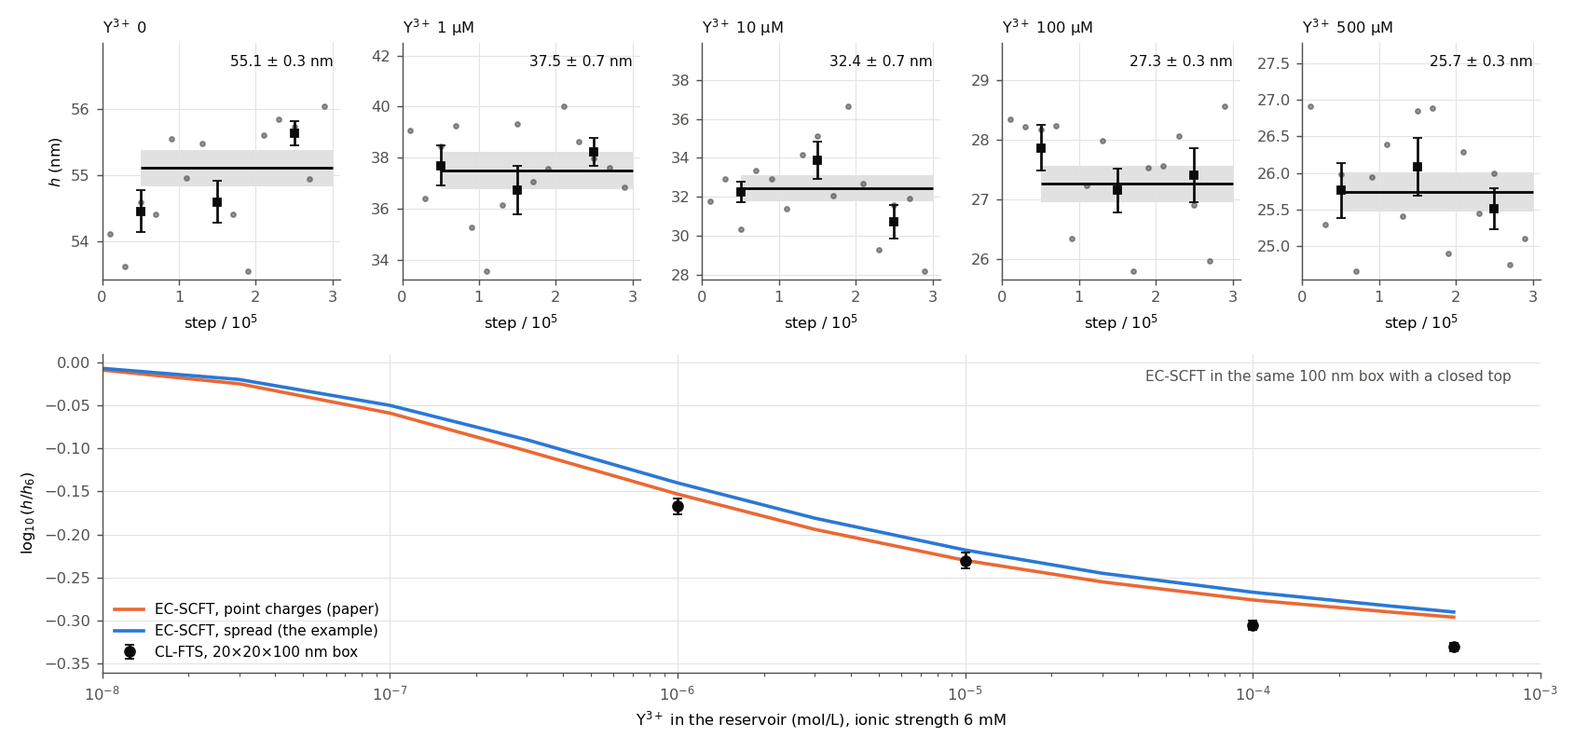
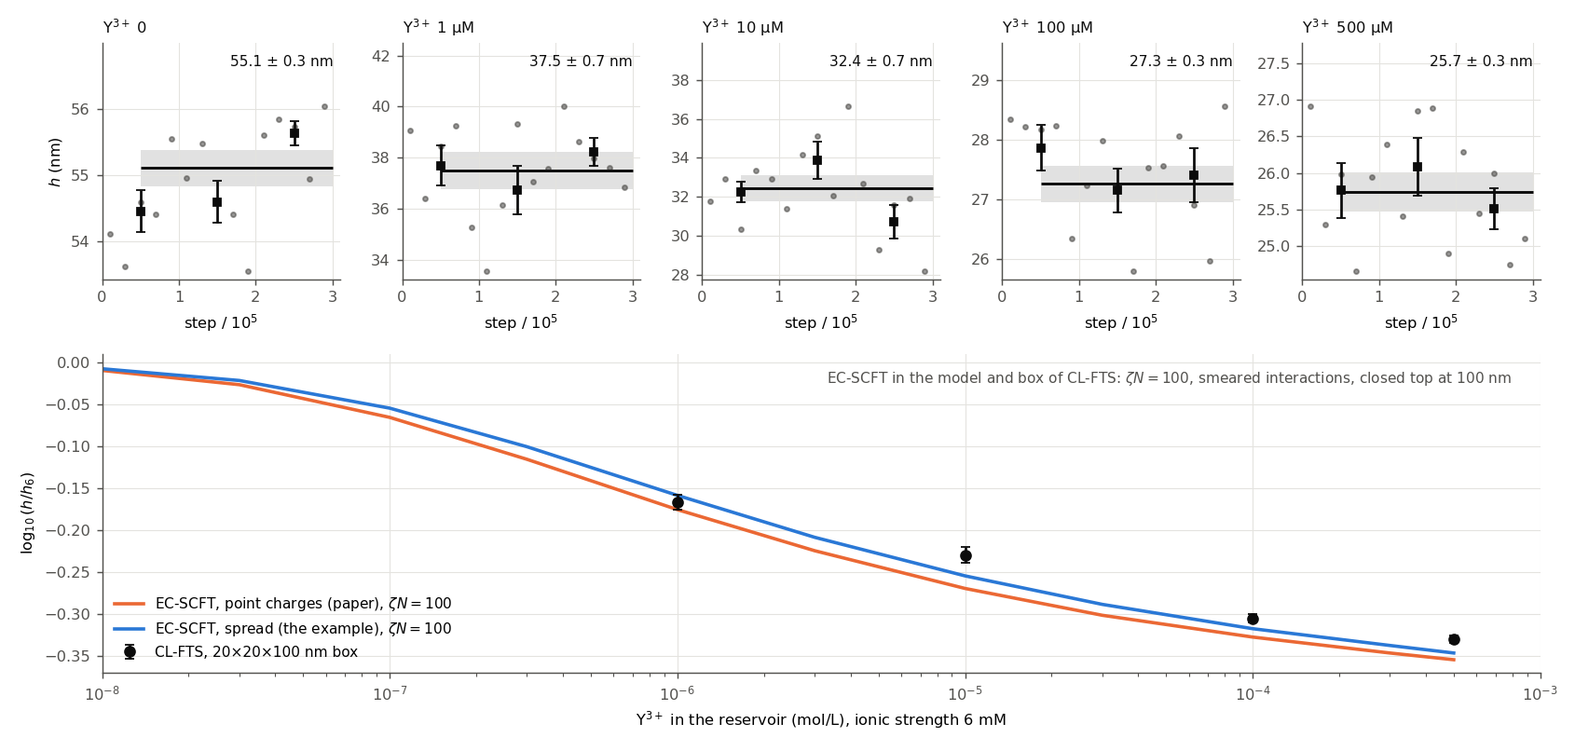
Compare the brush with CL-FTS through EC-SCFT in the model of the CL-FTS runs
The CL-FTS runs need a finite compressibility (zeta N = 100) and smear the interactions, and the
incompressible example collapses 0.02-0.06 less in log10(h/h6) than that model. EC-SCFT is now
solved in the model and box of CL-FTS (a canonical solvent with its own field, the same smearing,
a closed top at 100 nm): with spread screening it follows CL-FTS within 0.025, CL-FTS slightly
higher from 10 uM on, and the point screening of the paper collapses up to 0.039 more. The
validation page states the dynamical stabilization of the runs and the drift tails of their
fields, whose bias is not measured; devel keeps the EC-SCFT script of the comparison.

diff --git a/devel/charged_polymers/clfts/ecscft_clfts_model.py b/devel/charged_polymers/clfts/ecscft_clfts_model.py
@@ -1,0 +1,302 @@
+"""Validation copy of examples/charged/ecscft/BrushMultivalentIons.py in the model of the CL-FTS runs: a box of
+length L with the reservoir at its top (psi = 0) or a closed top (no field, the box neutral), and optionally a
+finite compressibility zeta N with a canonical solvent of its own field w_S (as CL-FTS); with it, the interactions
+act between densities smeared by a Gaussian of standard deviation a_int nm (as the smearing of CL-FTS). zeta_n = 0
+keeps the incompressible lattice gas of the example and ignores a_int.
+usage: python ecscft_clfts_model.py spread|point L reservoir|closed zeta_n a_int
+The comparison of docs/validation/BrushMultivalentIons.md: spread|point 100 closed 100 1.0;
+spread 200 reservoir 0 0 is the example.
+
+EC-SCFT of a polyelectrolyte brush that trivalent counterions collapse.
+
+Electrostatic-correlation-augmented SCFT (EC-SCFT) of Duan, Agrawal and Wang, Phys. Rev. Lett. 134, 048101
+(2025) adds to the mean field of a charged brush the self-energy of every charge: the free energy of the
+correlation hole that the other charges form around it. A charge of valence z gains z^2 times more of it where
+the ionic strength is high, so trivalent ions are drawn into the brush and collapse it further than
+Poisson-Boltzmann theory does. docs/theory/ElectrostaticCorrelations.md derives the equations.
+
+The brush is that of the paper: chains of N = 100 segments of b = 1 nm and v = 1 nm^3 grafted at 0.1 nm^-2,
+chi = 0.5 with water, l_B = 0.7 nm and one negative charge per segment. The solution is that of the neutron
+reflectivity experiment of Yu et al., Macromolecules 49, 5609 (2016): Na+, Y3+ and NO3- at a fixed ionic
+strength of 6 mM, in contact with the far end of the grid. The script adds Y3+ step by step and prints the
+height h = 2<z> relative to h6, the height in 6 mM NaNO3, and the Y3+ charge taken up by the brush per chain
+charge.
+
+- Chains: discrete Gaussian chains, as in the paper: each segment is a bead that carries one charge, joined to
+  the next by a Gaussian bond of length b. They are grafted near the wall z = 0, propagated with rs (the bond
+  summed on the grid) in a field per segment, and mixed with the solvent as an incompressible lattice gas.
+- Ions: Boltzmann densities in the mean potential psi and their self-energy; psi from Poisson-Boltzmann. With
+  spread screening each charge, segments included, feels psi averaged over its own Gaussian and is spread in
+  the same way in the Poisson equation, as the Gaussian average of the variational theory gives.
+- Self-energy: every charge is a Gaussian of Born radius a. In a uniform medium a charge of radius a_J has the
+  self-energy per z^2
+      u_J = (l_B/pi) int_0^inf dk k^2 h_J(k)^2 / (k^2 + sum_K kappa_K^2 h_K(k)^2),   h_K(k)^2 = exp(-a_K^2 k^2/pi),
+  minus its value in the bulk solution, where kappa_K^2 = 8 pi l_B I_K is set by the partial ionic strength
+  I_K of the charges of radius a_K. Every charge screens with its own spread, as the stationary point of the
+  variational free energy requires. The paper screens with point charges (h_K = 1 in the denominator), the
+  limit taken by Wang, Phys. Rev. E 81, 021501 (2010), and takes psi at the centre of each charge;
+  screening = "point" selects these published equations.
+- Local form: each species takes the uniform result at the partial ionic strengths averaged over a Gaussian of
+  standard deviation a along z, and feels its self-energy averaged in the same way. The intrachain part of
+  the polymer self-energy is left out, as in the brush calculations of the paper, so each segment is screened
+  like a free ion. correlations = False drops the self-energy and gives the mean field (Poisson-Boltzmann, of spread
+  charges unless screening = "point").
+
+The Born radii are 1.7725 nm = sqrt(pi) b for the segment charges, 0.25 nm for Na+ and NO3- as in the paper, and
+0.66 nm for Y3+, which fits the mean activity coefficients of Y(NO3)3 up to 0.1 mol/kg (Rard and Spedding, J. Chem.
+Eng. Data 27, 454 (1982)) with point-charge screening and one radius for Y3+ and NO3-; the paper takes 0.25 nm
+for every charge. The self-energy is not part of the polymerfts SCFT class, so the script writes the iteration
+itself (damped steps and Anderson mixing) and takes the chains from PropagatorSolver. Lengths are in nm and
+energies in kT. The run takes about one minute on one CPU core. docs/validation/BrushMultivalentIons.md compares
+the model with Figs. 2 and 4 of the paper, with the experiment and with CL-FTS of the same brush.
+"""
+
+import os
+import sys
+
+import numpy as np
+from scipy.ndimage import gaussian_filter, gaussian_filter1d
+from scipy.sparse import csc_matrix, diags, identity
+from scipy.sparse.linalg import spsolve
+
+# OpenMP environment variables (set before importing polymerfts)
+os.environ["OMP_MAX_ACTIVE_LEVELS"] = "0"  # One chain: nothing to run in parallel
+os.environ["OMP_NUM_THREADS"] = "1"
+
+from polymerfts import PropagatorSolver
+
+n_segments = 100        # Segments N of a chain
+segment = 1.0           # Statistical segment length b, nm
+volume = 1.0            # Segment volume v, nm^3
+grafting = 0.1          # Chains per nm^2
+chi = 0.5               # Segment-solvent interaction
+bjerrum = 0.7           # Bjerrum length l_B, nm
+molar = 0.6022          # nm^-3 per mol/L
+radii = [1.7725, 0.25, 0.66]    # Born radius a of the segment charges, of Na+ and NO3-, and of Y3+, nm
+screening = sys.argv[1]    # "spread": each charge screens with its own spread; "point": point charges, as in the paper
+correlations = True     # False: mean field, no self-energy
+
+ionic_strength = 0.006  # Of the solution, mol/L: NaNO3 and Y(NO3)3
+yttrium = [1e-10, 1e-9, 3e-9, 1e-8, 3e-8, 1e-7, 3e-7, 1e-6, 3e-6, 1e-5, 3e-5, 1e-4, 3e-4, 5e-4]   # Y3+, mol/L
+
+length, nz = float(sys.argv[2]), int(round(8 * float(sys.argv[2])))  # Grid of the brush and the solution next to it, nm
+top_bc, zeta, a_int = sys.argv[3], float(sys.argv[4]) / n_segments, float(sys.argv[5])
+graft_width = 0.5       # Width of the graft layer at the wall, nm
+floor = 6.0             # Lowest field below its largest value, kT per segment
+mixing, history, largest_step, tolerance, max_steps = 0.03, 20, 0.5, 1e-7, 1500
+
+
+def self_energy(a, kappa2, screen):
+    """Self-energy per z^2 of a Gaussian charge of radius a in a uniform medium in which the charges of radius
+    screen[K] give kappa2[K] (arrays of the grid or numbers), by the trapezoid rule in ln k."""
+    k = np.geomspace(1e-7 / a, 15.0 / a, 800)
+    weight = np.full(k.size, np.log(k[1] / k[0]))
+    weight[[0, -1]] *= 0.5
+    denominator = k ** 2 + sum(np.asarray(q)[..., None] * np.exp(-(b * k) ** 2 / np.pi) for q, b in zip(kappa2, screen))
+    return bjerrum / np.pi * ((k ** 3 * np.exp(-(a * k) ** 2 / np.pi)) / denominator) @ weight
+
+
+def partial_strengths(rho, sodium, cation, anion):
+    """Ionic strengths sum z^2 c / 2 of the segment charges, of the monovalent ions and of Y3+."""
+    return [0.5 * rho, 0.5 * (sodium + anion), 4.5 * cation]
+
+
+class Brush:
+    """A planar brush and its solution on nz points over length nm from the wall. The unknowns x of a state are
+    the field per segment and the self-energies per z^2 of the three radii."""
+
+    def __init__(self):
+        self.dz = length / nz
+        self.z = (np.arange(nz) + 0.5) * self.dz
+        unit = segment * np.sqrt(n_segments)   # R0, the length unit of PropagatorSolver
+        self.solver = PropagatorSolver(nx=[nz], lx=[length / unit], ds=1 / n_segments, bond_lengths={"A": 1.0},
+                                       bc=["absorbing", "reflecting"], chain_model="discrete",
+                                       numerical_method="rs")
+        self.solver.add_polymer(1.0, [["A", 1.0, 0, 1]], grafting_points={0: "G"})
+        self.graft = np.exp(-0.5 * (self.z / graft_width) ** 2)
+        self.screen = radii if screening == "spread" else [0.0] * len(radii)
+        self.blurs = [lambda v, a=a: gaussian_filter(v, sigma=a / self.dz, mode="reflect") for a in radii]
+        # The average over a charge of radius a, a Gaussian of standard deviation a / sqrt(pi) along z, as a
+        # symmetric band matrix (reflected at both ends); the paper's equations take the centre of the charge
+        spread = lambda a: gaussian_filter1d(np.eye(nz), a / np.sqrt(np.pi) / self.dz, axis=0, mode="reflect")
+        self.spreads = [csc_matrix(spread(a)) if screening == "spread" else identity(nz, format="csc") for a in radii]
+        off = 1 / self.dz ** 2   # d^2/dz^2 with no field at the wall and psi = 0 at the far end
+        middle = np.r_[-off, np.full(nz - 2, -2 * off), -off if top_bc == "closed" else -3 * off]
+        self.smear = (lambda v: gaussian_filter1d(v, a_int / self.dz, mode="reflect")) if a_int > 0 else (lambda v: v)
+        self.unknowns = 2 + len(radii) if zeta > 0 else 1 + len(radii)
+        self.laplacian = diags([np.full(nz - 1, off), middle, np.full(nz - 1, off)], [-1, 0, 1], format="csc")
+        self.psi = np.zeros(nz)
+
+    def set_solution(self, y):
+        """The solution at the far end: y mol/L of Y(NO3)3 and NaNO3 to the ionic strength."""
+        if 6 * y > ionic_strength:
+            raise ValueError(f"Y(NO3)3 of {y} mol/L exceeds the ionic strength of {ionic_strength} mol/L")
+        cation, sodium = y * molar, (ionic_strength - 6 * y) * molar
+        self.solution = dict(cation=cation, sodium=sodium, anion=sodium + 3 * cation)
+        strengths = partial_strengths(0.0, sodium, cation, self.solution["anion"])
+        self.bulk = [float(self_energy(a, [8 * np.pi * bjerrum * i for i in strengths], self.screen)) for a in radii]
+
+    def segment_density(self, field):
+        """Segments per nm^3 in the field per segment. Double precision holds about 700 kT over a chain, so the
+        field keeps a floor where hardly any chain reaches, and a constant comes off it."""
+        top = field.max() - floor
+        w = n_segments * (np.maximum(field, top) - top)
+        self.solver.compute_propagators({"A": w}, q_init={"G": self.graft})
+        self.solver.compute_concentrations()
+        rho = self.solver.get_concentration("A")
+        return rho * grafting * n_segments / (rho.sum() * self.dz)
+
+    def ion_densities(self, psi, u_mono, u_tri):
+        """Na+, Y3+ and NO3- at potential psi, averaged over each ion, and the self-energies per z^2 of the
+        monovalent ions and of Y3+."""
+        s, mono, tri = self.solution, self.spreads[1] @ psi, self.spreads[2] @ psi
+        return (s["sodium"] * np.exp(-np.clip(mono + u_mono, -300, 300)),
+                s["cation"] * np.exp(-np.clip(3 * tri + 9 * u_tri, -300, 300)),
+                s["anion"] * np.exp(np.clip(mono - u_mono, -300, 300)))
+
+    def poisson_boltzmann(self, rho, u_mono, u_tri):
+        """Newton iteration from the last potential, with no field at the wall and the potential of the solution,
+        zero, at the far end. With spread screening every charge, the segments too, is spread over its Gaussian."""
+        alpha, (segments, mono, tri) = 4 * np.pi * bjerrum, self.spreads
+        fixed = segments @ rho
+
+        def error(psi):
+            sodium, cation, anion = ions = self.ion_densities(psi, u_mono, u_tri)
+            charge = mono @ (sodium - anion) + 3 * (tri @ cation) - fixed
+            return self.laplacian @ psi + alpha * charge, ions
+
+        psi = self.psi
+        for _ in range(300):
+            f, (sodium, cation, anion) = error(psi)
+            if np.max(np.abs(f)) < 1e-8:
+                self.psi = psi
+                return psi, (sodium, cation, anion)
+            response = mono @ diags(sodium + anion) @ mono + 9 * (tri @ diags(cation) @ tri)
+            step = spsolve(csc_matrix(alpha * response - self.laplacian), f)
+            t, size = 1.0, np.linalg.norm(f)
+            while not np.linalg.norm(error(psi + t * step)[0]) < size and t > 1e-6:
+                t /= 2
+            psi = psi + t * step
+        raise RuntimeError("Poisson-Boltzmann did not converge")
+
+    def residual(self, x):
+        """Field per segment and self-energies per z^2, against what they make: zero at the solution."""
+        field, *u = x.reshape(self.unknowns, nz)
+        w_s = u.pop(0) if zeta > 0 else None
+        felt = [blur(v) for blur, v in zip(self.blurs, u)]
+        rho = self.segment_density(field)
+        psi, (sodium, cation, anion) = self.poisson_boltzmann(rho, felt[1], felt[2])
+        phi = np.clip(volume * rho, 0, 0.999)
+        if zeta > 0:
+            solvent = np.exp(-(w_s - w_s.min()))
+            phi_s = (length - grafting * n_segments * volume) * solvent / (solvent.sum() * self.dz)
+            phi = volume * rho
+            excess = zeta * (self.smear(phi + phi_s) - 1)
+            target = self.smear(chi * self.smear(phi_s) + excess) - self.spreads[0] @ psi + felt[0]
+            target_s = self.smear(chi * self.smear(phi) + excess)
+        else:
+            target = chi * (1 - 2 * phi) - np.log1p(-phi) - self.spreads[0] @ psi + felt[0]
+        self.state = dict(rho=rho, psi=psi, sodium=sodium, cation=cation, anion=anion)
+        if correlations:
+            strengths = partial_strengths(rho, sodium, cation, anion)
+            made = [self_energy(a, [8 * np.pi * bjerrum * blur(i) for i in strengths], self.screen) - bulk
+                    for a, blur, bulk in zip(radii, self.blurs, self.bulk)]
+        else:
+            made = [np.zeros(nz)] * len(radii)
+        own = [target - field] + ([target_s - w_s] if zeta > 0 else [])
+        if zeta > 0:
+            self.state['solvent'] = phi_s
+        return np.concatenate(own + [new - old for new, old in zip(made, u)])
+
+    def relax(self, x, plain_steps=0):
+        """Damped steps x + mixing * residual: plain_steps of them, then max_steps at most with Anderson mixing of
+        the last history steps, each change of a field limited to largest_step kT. Returns the state and its
+        largest residual."""
+        past_x, past_g = [], []
+        for step in range(plain_steps + max_steps):
+            f = self.residual(x)
+            largest = np.max(np.abs(f))
+            if largest < tolerance:
+                break
+            g = mixing * f
+            if step < plain_steps:
+                x = x + g
+                continue
+            past_x.append(x)
+            past_g.append(g)
+            del past_x[:-history - 1], past_g[:-history - 1]
+            new = x + g
+            if len(past_x) > 1:
+                dx, dg = np.diff(past_x, axis=0), np.diff(past_g, axis=0)
+                product = dg @ dg.T
+                weights = np.linalg.solve(product + 1e-10 * np.trace(product) * np.eye(len(dg)), dg @ g)
+                new = new - weights @ (dx + dg)
+            x = x + min(1.0, largest_step / np.max(np.abs(new - x))) * (new - x)
+        field, rho = x[:nz], self.state["rho"]
+        if rho[field < field.max() - floor].max(initial=0) > 1e-4 * rho.max():
+            print("  Warning: chains reach the floor of the field. Compare this state with a higher floor.")
+        return x, largest
+
+    def height(self):
+        rho = self.state["rho"]
+        return 2 * np.sum(self.z * rho) / np.sum(rho)
+
+    def uptake(self):
+        """Y3+ charge in the brush, beyond that of the solution, per chain charge."""
+        cation = self.state["cation"]
+        return 3 * np.sum(cation - cation[-1]) * self.dz / (grafting * n_segments)
+
+
+def solve(brush, x, plain_steps=0):
+    """The state from x and the last potential; the potential is kept only when the state converges."""
+    psi = brush.psi
+    try:
+        x, left = brush.relax(x, plain_steps)
+        if not left < tolerance:
+            raise RuntimeError(f"No solution: residual {left:.1e}")
+    except (RuntimeError, ValueError):
+        brush.psi = psi
+        raise
+    return x
+
+
+def top(key):
+    ref = brush.solution[key]
+    return brush.state[key][brush.z > length - 10].mean() / ref if ref > 0 else float("nan")
+
+
+def top_text():
+    total = volume * brush.state["rho"] + brush.state.get("solvent", 1 - volume * brush.state["rho"])
+    return (f" h {brush.height():7.3f} top 10 nm: Na {top('sodium'):.3f} NO3 {top('anion'):.3f} Y {top('cation'):.3f}"
+            f" phi {volume * brush.state['rho'][brush.z > length - 10].mean():.5f}"
+            f" total density {total.min():.3f}-{total.max():.3f}")
+
+
+brush = Brush()
+print(f"box {length} nm, top {top_bc}, zeta N {zeta * n_segments:g}, a_int {a_int:g} nm")
+print(f"Born radii {radii} nm, screening by {screening} charges" + ("" if correlations else ", mean field"))
+
+# The swollen brush in NaNO3 alone, from a parabolic field
+brush.set_solution(0.0)
+parabola = 3 * np.pi ** 2 / (8 * n_segments ** 2 * segment ** 2) * np.maximum(70.0 ** 2 - brush.z ** 2, 0)
+x = solve(brush, np.concatenate([0.5 + parabola] + [np.zeros(nz)] * (brush.unknowns - 1)), plain_steps=600)
+h6 = brush.height()
+print(f"{ionic_strength * 1e3:g} mM NaNO3: h6 = {h6:.3f} nm" + top_text())
+
+# Y3+ added step by step, each state from the last one; a step that fails is halved (in log scale)
+print(f"{'Y3+ (mol/L)':>12} {'log10(h/h6)':>12} {'uptake':>8}")
+done, pending = [0.0], list(yttrium)
+while pending:
+    y = pending[0]
+    brush.set_solution(y)
+    try:
+        x = solve(brush, x)
+    except (RuntimeError, ValueError):
+        if (done[-1] > 0 and y < 1.001 * done[-1]) or y < 1e-15:
+            print(f"{y:12.3g}  no solution")
+            break
+        pending.insert(0, np.sqrt(done[-1] * y) if done[-1] > 0 else y / 10)
+        continue
+    pending.pop(0)
+    done.append(y)
+    print(f"{y:12.3g} {np.log10(brush.height() / h6):12.3f} {brush.uptake():8.3f}" + top_text(), flush=True)

diff --git a/docs/validation/BrushMultivalentIons.md b/docs/validation/BrushMultivalentIons.md
@@ -15,7 +15,7 @@ The runs take the brush of Duan, Agrawal and Wang (Reference 1): $`N=100`$ segme
 - Not reproduced (validation runs with the published screening and continuous chains): Fig. 3 of Reference 1. It plots Eqs. 7 and 9 of the paper, an expansion about the bulk that needs a salt concentration much larger than the charge of the brush. The brush of Fig. 2 holds the charge of the figure only from 3 M (at $`z_+=3`$ and 10 M, $`\Gamma=0.136`$ against 0.134 read); below, it holds much less (the lowest $`\Gamma`$ is −0.61 against −1.31).
 - Checked (validation runs with the Green function of either screening): Fig. 4(c,d) of Reference 1, a brush in 1 mM 3:1 salt with the self-energy from the Green function solved in the varying ionic strength. With point screening the runs reproduce the figure: the flat layer of (c) at φ = 0.78 (paper 0.78) with its edge at 13.4 nm (13.2), and at a Y³⁺ radius of 1.5 Å the layers of (d) with period 0.90 nm (0.89) and φ = 0.73–0.90 (0.69–0.89). With spread screening the layer of (c) is less dense (0.73) and thicker (edge 14.4 nm), and the layers of (d) remain, weaker (amplitude 0.041 against 0.072) and less regular, with spacings of 1.0 to 1.5 nm. The linear stability of the uniform layer agrees: it turns unstable below a Y³⁺ radius of 1.83 Å with point screening and of 1.64 Å with spread screening ([Fig. 4 of Duan et al.](#fig-4-of-duan-et-al)). The local form of the example has no response at finite wave number and gives no layers.
 - Not reproduced (validation runs with the published screening, the local form and continuous chains): Fig. 4(a,b), the lateral structure of a brush at 0.03 chains/nm². The hexagonal pattern holds once seeded, but lies above the planar layer at every spacing tried, and ridges lie below it.
-- Checked (validation runs): the brush against complex Langevin simulations (CL-FTS), which keep the fluctuations that EC-SCFT closes at second order or leaves out ([Complex Langevin simulations](#complex-langevin-simulations)). At 0 µM the heights agree within 0.5 %. With Y³⁺ CL-FTS collapses the brush further: $`\log_{10}(h/h_6)`$ lies 0.028, 0.012, 0.038 and 0.041 below the example at 1, 10, 100 and 500 µM, three to eight times the error except at 10 µM, and 0.014, 0.000, 0.030 and 0.035 below the point screening of the paper.
+- Checked (validation runs): the brush against complex Langevin simulations (CL-FTS) of the same model, with EC-SCFT given the compressibility ($`\zeta N=100`$) and the smearing of the runs ([Complex Langevin simulations](#complex-langevin-simulations)). With spread screening $`\log_{10}(h/h_6)`$ agrees within 0.025, CL-FTS higher by up to 3.4 standard errors from 10 µM on, and the point screening of the paper lies 0.008–0.039 below CL-FTS; at 0 µM CL-FTS is 1.7 % taller. The compressibility itself lowers $`\log_{10}(h/h_6)`$ of the incompressible example by 0.02–0.06. Two biases of CL-FTS are not measured: that of dynamical stabilization, which would favor a denser brush, and that of the heavier drift tail of $`\psi`$ with Y³⁺.
 - Not checked: the brush against CL-FTS at the radii of the paper (0.25 nm for every charge), where the coupling is larger.
 
 ## Fig. 2 of Duan et al.
@@ -56,21 +56,23 @@ The linear stability uses the first-order response of the self-energy of each sc
 
 ## Complex Langevin simulations
 
-![The brush of the example in CL-FTS against EC-SCFT in the same box](../figures/brush_multivalent_ions_clfts.png)
+![The brush in CL-FTS against EC-SCFT in the same model and box](../figures/brush_multivalent_ions_clfts.png)
 
-The runs simulate the brush of the example with [CL-FTS](../theory/ComplexLangevinSimulation.md): discrete chains (`rs`) with one charge per segment, a solvent of one segment with $`\chi=0.5`$, $`\ell_B=0.7`$ nm, every charge a Gaussian of standard deviation $`a/\sqrt{\pi}`$ with the Born radii of the example, and Na⁺, Y³⁺ and NO₃⁻ from a reservoir at an ionic strength of 6 mM, whose chemical potentials include the one-loop excess on the grid so that the solution far from the brush holds the reservoir concentrations. In place of the incompressible lattice gas of the example the fields have a finite compressibility, $`\zeta N=100`$, and the interactions of a segment are spread over the Gaussian of its charge (standard deviation 1 nm). The box is 20×20×100 nm on a 0.5 nm grid, periodic along the wall (2 $`R_0`$), with the chains grafted next to an absorbing wall at $`z=0`$ and a closed top; $`\bar N=100`$, $`\delta t=0.001`$ with `lm` and dynamic stabilization 0.05. $`\psi`$ takes 3 times the mobility of the other fields (10 times at 0 µM), and its uniform mode (the Donnan potential) and its values in the dilute solution above the brush (above 50–60 nm at 500 µM, rising to 85–95 nm at 0 µM) larger ones; mobilities change the dynamics and not the distribution. Each run of the table starts from a state equilibrated in a 10 nm box, mirrored to 20 nm, and runs $`3\times10^5`$ steps; the means take the steps after $`5\times10^4`$, with the standard error of the blocking plateau. In the figure the dots are means over $`2\times10^4`$ steps, the squares means over $`10^5`$ steps, and the line and band the mean of the window and its error.
+The runs simulate the brush of the example with [CL-FTS](../theory/ComplexLangevinSimulation.md): discrete chains (`rs`) with one charge per segment, a solvent of one segment with $`\chi=0.5`$, $`\ell_B=0.7`$ nm, every charge a Gaussian of standard deviation $`a/\sqrt{\pi}`$ with the Born radii of the example, and Na⁺, Y³⁺ and NO₃⁻ from a reservoir at an ionic strength of 6 mM, whose chemical potentials include the one-loop excess on the grid so that the solution far from the brush holds the reservoir concentrations. In place of the incompressible lattice gas of the example the fields have a finite compressibility, $`\zeta N=100`$, and the interactions of a segment are spread over the Gaussian of its charge (standard deviation 1 nm). The box is 20×20×100 nm on a 0.5 nm grid, periodic along the wall (2 $`R_0`$), with the chains grafted next to an absorbing wall at $`z=0`$ and a closed top; $`\bar N=100`$, $`\delta t=0.001`$ with `lm` and dynamical stabilization $`\alpha_{ds}=0.05`$. $`\psi`$ takes 3 times the mobility of the other fields (10 times at 0 µM), and its uniform mode (the Donnan potential) and its values in the dilute solution above the brush (above 50–60 nm at 500 µM, rising to 85–95 nm at 0 µM) larger ones; mobilities change the dynamics and not the distribution. Each run of the table starts from a state equilibrated in a 10 nm box, mirrored to 20 nm, and runs $`3\times10^5`$ steps; the means take the steps after $`5\times10^4`$, with the standard error of the blocking plateau. In the figure the dots are means over $`2\times10^4`$ steps, the squares means over $`10^5`$ steps, and the line and band the mean of the window and its error.
 
-EC-SCFT is solved in the same box: 100 nm with a closed top, where no field crosses, so that the box is neutral. At 0 µM the brush reaches that top in both methods (polymer volume fraction 0.003–0.004 and Na⁺ 1.8 times the reservoir over the top 10 nm). The 200 nm box of the example, whose far end holds the reservoir, makes little difference: $`\log_{10}(h/h_6)`$ changes by at most 0.001 at every concentration of the example, $`h_6`$ by less than 0.2 %, and the heights from 1 µM on not at all.
+EC-SCFT is solved in the model and the box of CL-FTS: the code of the example with the compressibility $`\zeta N=100`$ (the solvent then has a field of its own and a fixed amount, as in CL-FTS), the interactions smeared in the same way, and a closed top at 100 nm, where no field crosses, so that the box is neutral. With $`\zeta N=10^4`$ and no smearing it reproduces the incompressible example within 0.0011 in $`\log_{10}(h/h_6)`$. The smearing changes $`\log_{10}(h/h_6)`$ by at most 0.001. The compressibility lowers it by 0.02 at 1 µM to 0.06 at 500 µM, where the total density of the collapsed brush rises to 1.15–1.2. At 0 µM the brush reaches the top of the box in both methods (CL-FTS and EC-SCFT with spread screening: polymer volume fraction 0.003–0.004 and Na⁺ 1.7–1.8 times the reservoir over the top 10 nm). The 200 nm box of the example, whose far end holds the reservoir, makes little difference: $`\log_{10}(h/h_6)`$ of the example changes by at most 0.001 at every concentration, $`h_6`$ by less than 0.2 %, and the heights from 1 µM on not at all.
 
 | Y³⁺ | $`h`$, CL-FTS (nm) | $`\log_{10}(h/h_6)`$, CL-FTS | EC-SCFT, spread | EC-SCFT, point |
 |---|---|---|---|---|
 | 0 | 55.11 ± 0.27 | | | |
-| 1 µM | 37.49 ± 0.73 | −0.167 ± 0.009 | −0.140 | −0.153 |
-| 10 µM | 32.42 ± 0.68 | −0.230 ± 0.009 | −0.218 | −0.230 |
-| 100 µM | 27.26 ± 0.30 | −0.306 ± 0.005 | −0.267 | −0.276 |
-| 500 µM | 25.74 ± 0.26 | −0.331 ± 0.005 | −0.290 | −0.296 |
+| 1 µM | 37.49 ± 0.73 | −0.167 ± 0.009 | −0.159 | −0.176 |
+| 10 µM | 32.42 ± 0.68 | −0.230 ± 0.009 | −0.255 | −0.270 |
+| 100 µM | 27.26 ± 0.30 | −0.306 ± 0.005 | −0.318 | −0.328 |
+| 500 µM | 25.74 ± 0.26 | −0.331 ± 0.005 | −0.347 | −0.355 |
 
-- At 0 µM the example gives $`h_6=54.84`$ nm in the same box (53.68 nm with point screening), within 0.5 % of CL-FTS: the fluctuations and the finite compressibility hardly change the swollen brush. With Y³⁺ the brush of CL-FTS is 2–9 % lower than that of the example.
+- **Against EC-SCFT.** At 0 µM CL-FTS is 1.7 % taller than EC-SCFT in its model (55.11 against 54.21 nm, 3.3 standard errors). With Y³⁺, $`\log_{10}(h/h_6)`$ of CL-FTS lies 0.008 below to 0.025 above EC-SCFT with spread screening (−0.9, 2.7, 2.2 and 3.4 standard errors at 1, 10, 100 and 500 µM) and 0.008–0.039 above the point screening of the paper. The heights agree at 1 µM and are 4–8 % larger in CL-FTS from 10 µM on.
+- **Dynamical stabilization.** The runs use it to stay stable. It biases the sampling toward stronger segregation ([CL-FTS theory, Section 4](../theory/ComplexLangevinSimulation.md#4-hot-spots-and-dynamical-stabilization)), which in the brush would favor a denser layer; its size at $`\alpha_{ds}=0.05`$ is not measured.
+- **Drift.** The fraction of steps whose largest drift exceeds ten times its median, $`S(10\times)`$ ([CL-FTS theory, Section 3](../theory/ComplexLangevinSimulation.md#3-correct-convergence)), is $`5\times10^{-5}`$ to $`10^{-3}`$ for the auxiliary fields at every concentration. For $`\psi`$ it is $`10^{-4}`$ at 0 µM and $`4\times10^{-3}`$ to $`9\times10^{-3}`$ with Y³⁺. In the model with exact averages of that section the bias grows with this weight, so the runs with Y³⁺ can carry a bias whose size this comparison does not show.
 - The height fluctuates with heavy tails (excess kurtosis up to 5400), and slow excursions last about $`10^5`$ steps: at 10 µM the $`10^5`$-step means reach 33.9 and 30.7 nm, so the error of that point rests on few independent blocks.
 - Three of eight runs diverged within $`10^5`$ steps (once at 10 µM, twice at 500 µM): the standard deviation of the force on $`\psi`$ grows from 6 to $`3\times10^2`$–$`4\times10^3`$ within about 50 steps, and the material conservation check stops the run. Such a run is started again with another seed (at 500 µM also from another state); the table takes the runs that reached $`3\times10^5`$ steps. The 500 µM run joins a run to $`1.5\times10^5`$ steps and its continuation with another seed, whose heights between 1.5 and $`1.75\times10^5`$ steps are taken every 1000 steps; the block means weight each value by the steps it stands for.
 

diff --git a/docs/validation/NumericalValidation.md b/docs/validation/NumericalValidation.md
@@ -87,7 +87,7 @@ These cover small models and weak to moderate coupling. Agreement with another c
 | McCarty et al. 2019 | Density structure function S_ρ(2π/L) at ρb³ = 1.47 2.9 % (sv30) to 4–8 % (sv10–sv25) below the paper's points, which have no error bars | Undecided: the paper's points have no error bars; all sequences lie below them, sv30 by 2.5 standard errors of polymerfts, so the offset may be common to all; not investigated further | [Example validation](ExampleValidation.md#charged-systems) |
 | McCarty et al. 2019, two-phase points | Chemical potential of sv30 at l_B = 0.195 b and ρb³ = 0.015 and 0.059, inside the two-phase region, differs from the paper (βμ_ex ≈ −15 at ρb³ = 0.059) | Explained: the boxes hold 0.8 and 3 chains on average, which aggregate, while the paper's values follow the homogeneous solution | [Example validation](ExampleValidation.md#charged-systems) |
 | Duan et al. 2025, Fig. 2 | The low-salt half needs a box length of 6.6 µm that the paper does not state; the spread screening of the example lies at rms 0.033 from the readings, the point screening of the paper at 0.017 | Explained: in a closed box the onset moves as $`L^{-2z_+/(z_++1)}`$; the paper screens with point charges (Wang 2010, Appendix A), which is not the stationary point of its free energy | [Example validation](BrushMultivalentIons.md#fig-2-of-duan-et-al) |
-| Yu et al. 2016 | With Born radii from bulk activity coefficients the collapse at the outer edge of the film stops at −0.38 (−0.44 with segment charges of 2.5 Å) against −0.545; NaNO₃ shrinks the model from 0.1 M, the experiment not up to 2 M | Undecided: the Gaussian closure at the coupling of the collapsed brush, the intrachain correlations it leaves out and the Gaussian chains are candidates. CL-FTS of the brush of the example, free of the closure and of the omission, collapses the brush 0.012–0.041 further ([Example validation](BrushMultivalentIons.md#complex-langevin-simulations)); the radii and chains of the experiment are not tested | [Example validation](BrushMultivalentIons.md#the-experiment-of-yu-et-al) |
+| Yu et al. 2016 | With Born radii from bulk activity coefficients the collapse at the outer edge of the film stops at −0.38 (−0.44 with segment charges of 2.5 Å) against −0.545; NaNO₃ shrinks the model from 0.1 M, the experiment not up to 2 M | Undecided: the Gaussian closure at the coupling of the collapsed brush, the intrachain correlations it leaves out and the Gaussian chains are candidates. In the brush of the example with the compressibility $`\zeta N=100`$, CL-FTS, free of the closure and of the omission, lies within 0.025 of EC-SCFT in $`\log_{10}(h/h_6)`$ and from 10 µM on collapses the brush slightly less ([Example validation](BrushMultivalentIons.md#complex-langevin-simulations)); the radii and chains of the experiment are not tested | [Example validation](BrushMultivalentIons.md#the-experiment-of-yu-et-al) |
 
 **Limits of CL-FTS found in these comparisons.**
 - Counterions between charged plates: at $`\Xi = 0.85`$ the contact density is 4 % too high even as $`\delta\tau \to 0`$, and at $`\Xi \ge 1.6`$ the profile is qualitatively wrong. The strong-coupling regime of counterions is out of reach ([CL-FTS theory, Section 6](../theory/ComplexLangevinSimulation.md#6-charged-systems)).

diff --git a/docs/validation/ExampleValidation.md b/docs/validation/ExampleValidation.md
@@ -23,7 +23,7 @@ Each example lists under these labels:
 | `charged/scft/SaltDopedLamella.py` | Locally neutral limit (a neutral salt molecule), grid convergence | Checked; published salt-doped lamellae not compared |
 | `charged/scft/PolyelectrolyteBrush.py` | Independent Poisson-Boltzmann solution, Δx convergence, `ps` where it runs | Checked; brush theory not compared |
 | [`charged/scft/CounterionsBetweenPlates.py`](Electrolytes.md) | Poisson-Boltzmann of Netz 2001 | Agrees: profile within 10⁻³, pressure within 3×10⁻⁵ |
-| [`charged/ecscft/BrushMultivalentIons.py`](BrushMultivalentIons.md) | Duan et al. 2025, Figs. 2–4; Yu et al. 2016; bulk activity coefficients | Fig. 2 agrees within 0.03 with the paper's point-charge screening and a fitted box length (rms 0.017); the spread screening of the example lies at rms 0.033 (explained). The experiment is followed with the paper's radius and a fitted pool depth (rms 0.042), not with radii from bulk activities (not reproduced). Fig. 4(c,d) is reproduced with the paper's Green function; with spread screening its layers are weaker. CL-FTS of the same brush collapses it 0.012–0.041 further in $`\log_{10}(h/h_6)`$ than the example |
+| [`charged/ecscft/BrushMultivalentIons.py`](BrushMultivalentIons.md) | Duan et al. 2025, Figs. 2–4; Yu et al. 2016; bulk activity coefficients | Fig. 2 agrees within 0.03 with the paper's point-charge screening and a fitted box length (rms 0.017); the spread screening of the example lies at rms 0.033 (explained). The experiment is followed with the paper's radius and a fitted pool depth (rms 0.042), not with radii from bulk activities (not reproduced). Fig. 4(c,d) is reproduced with the paper's Green function; with spread screening its layers are weaker. In the model of CL-FTS of the same brush (compressibility $`\zeta N=100`$), EC-SCFT with spread screening follows CL-FTS within 0.025 in $`\log_{10}(h/h_6)`$, CL-FTS slightly higher from 10 µM on; the compressibility lowers the incompressible example by 0.02–0.06 |
 | [`charged/clfts/CounterionsBetweenPlates.py`](Electrolytes.md) | Netz's loop expansion, exact lattice Monte Carlo | Agrees up to Ξ ≈ 0.6; wrong at Ξ ≥ 0.85 (limit of CL-FTS) |
 | [`charged/clfts/SmearedSaltSelfEnergy.py`](Electrolytes.md) | One-loop theory, exact Monte Carlo | Agrees: 0.1 % at weak coupling, Monte Carlo up to l_Bκ = 4.8 |
 | `charged/clfts/ChargedDiblock.py` | RPA at N̄ = 10⁶ | Checked at weak fluctuations; the example's regime not checked |

diff --git a/docs/theory/ElectrostaticCorrelations.md b/docs/theory/ElectrostaticCorrelations.md
@@ -247,7 +247,7 @@ The main text writes Eqs. 3a and 5 with the wrong integration variables; SI Eqs.
 - **Density fluctuations.** The segments and ions screen as if they could move freely. In a dense incompressible layer ($`\phi\approx0.7`$) this overestimates $`\kappa`$ by about 8 % and the correlation gain by about 4 %.
 - **Local form.** Eq. (22) answers a change of ionic strength at the same point only and selects no length. The layers that Reference 1 finds in a collapsed brush at small cation radii, and lateral structure, need the Green function of Eq. (9) or (10); with Eq. (9) the layers are weaker and appear only below a smaller radius ([validation](../validation/BrushMultivalentIons.md#fig-4-of-duan-et-al)).
 
-- **Against CL-FTS.** At the radii of the example (Y³⁺ 0.66 nm) CL-FTS of the brush, which keeps the fluctuations that these approximations close or leave out, collapses it 0.012–0.041 further in $`\log_{10}(h/h_6)`$ ([validation](../validation/BrushMultivalentIons.md#complex-langevin-simulations)).
+- **Against CL-FTS.** In the model of the CL-FTS runs (compressibility $`\zeta N=100`$) and at the radii of the example (Y³⁺ 0.66 nm), CL-FTS of the brush, which keeps the fluctuations that these approximations close or leave out, lies within 0.025 of EC-SCFT with spread screening in $`\log_{10}(h/h_6)`$ and from 10 µM on collapses the brush slightly less; point screening collapses it 0.008–0.039 more than CL-FTS ([validation](../validation/BrushMultivalentIons.md#complex-langevin-simulations)).
 
 ## 8. References
 

diff --git a/devel/charged_polymers/reports/BrushClfts.md b/devel/charged_polymers/reports/BrushClfts.md
@@ -7,6 +7,7 @@ Complex Langevin simulations (CL-FTS) of the brush of [BrushMultivalentIons.py](
 | [clfts/bulk_clfts.py](../clfts/bulk_clfts.py) | Bulk CL-FTS of a 3:1 salt, one state per run, $`\mu_{\rm ex}`$ per $`10^4`$ steps against one loop on the same grid |
 | [clfts/plot_bulk.py](../clfts/plot_bulk.py) | The figure of Section 1, from the runs in `references/charged_polymers/brush_clfts_bulk/` (outside git) |
 | [clfts/brush_clfts.py](../clfts/brush_clfts.py) | 3D CL-FTS of the brush, started from 1D SCFT or from a checkpoint (`--restart`, `--start-from`) |
+| [clfts/ecscft_clfts_model.py](../clfts/ecscft_clfts_model.py) | The EC-SCFT example in the model and box of the CL-FTS runs (compressibility, smeared interactions, closed top), for the comparison of the validation page |
 
 ## 1. Trivalent ions in bulk CL-FTS
 
